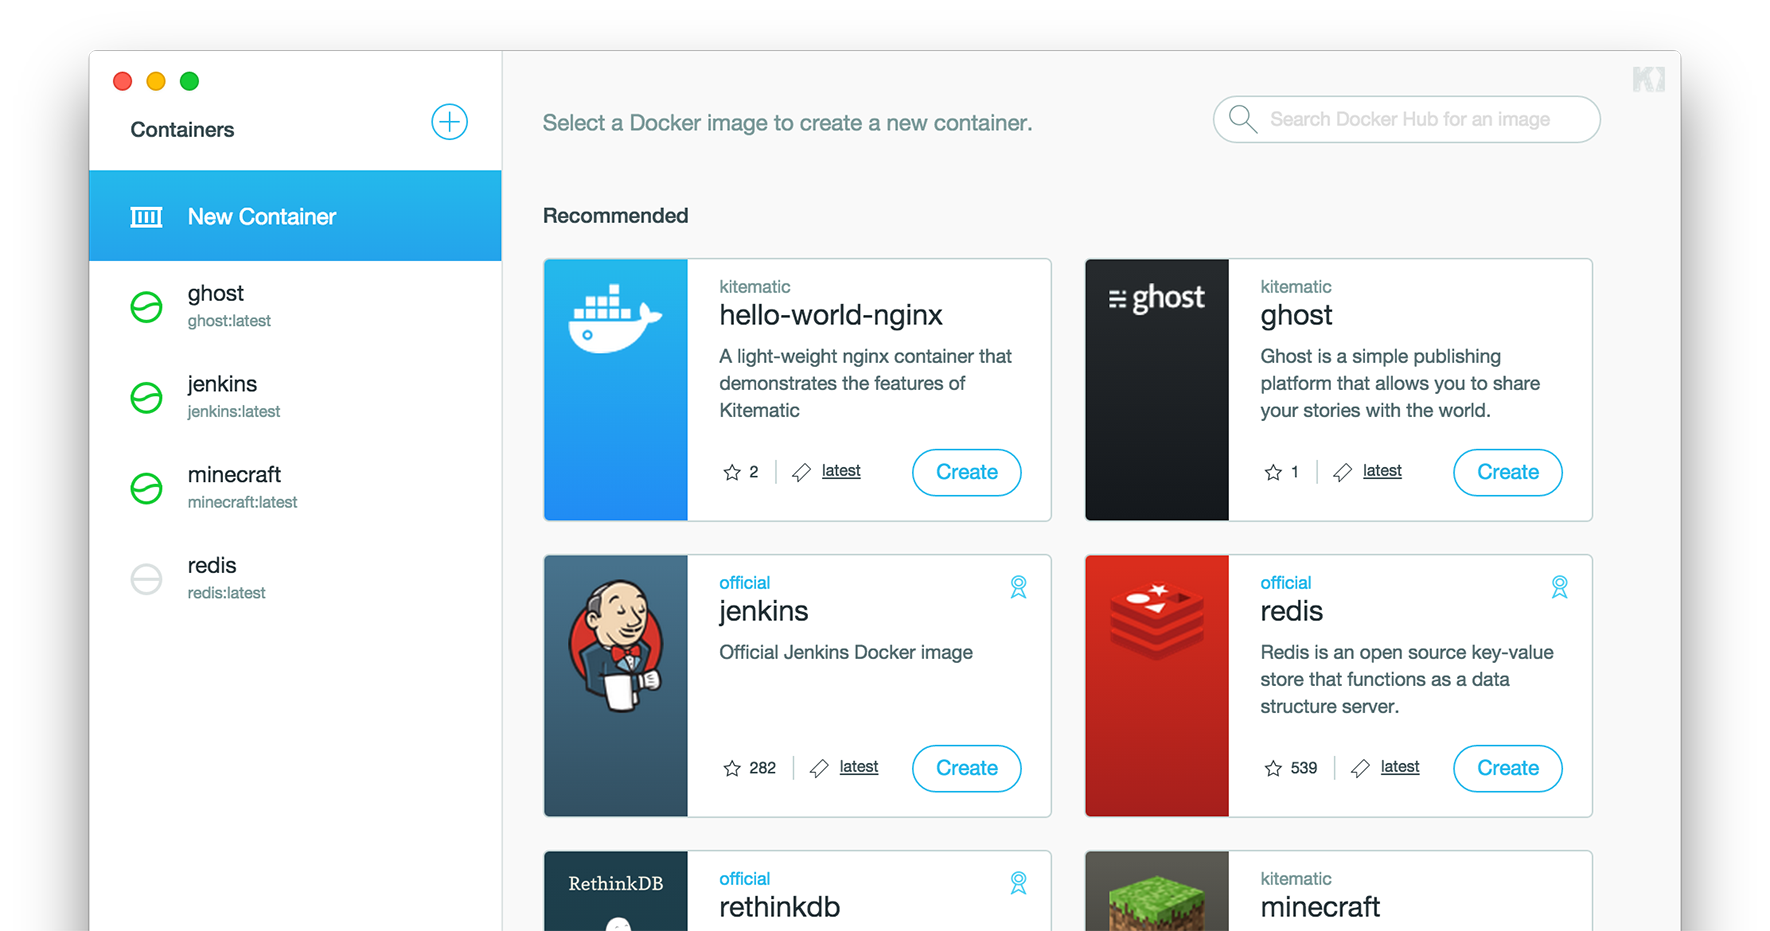
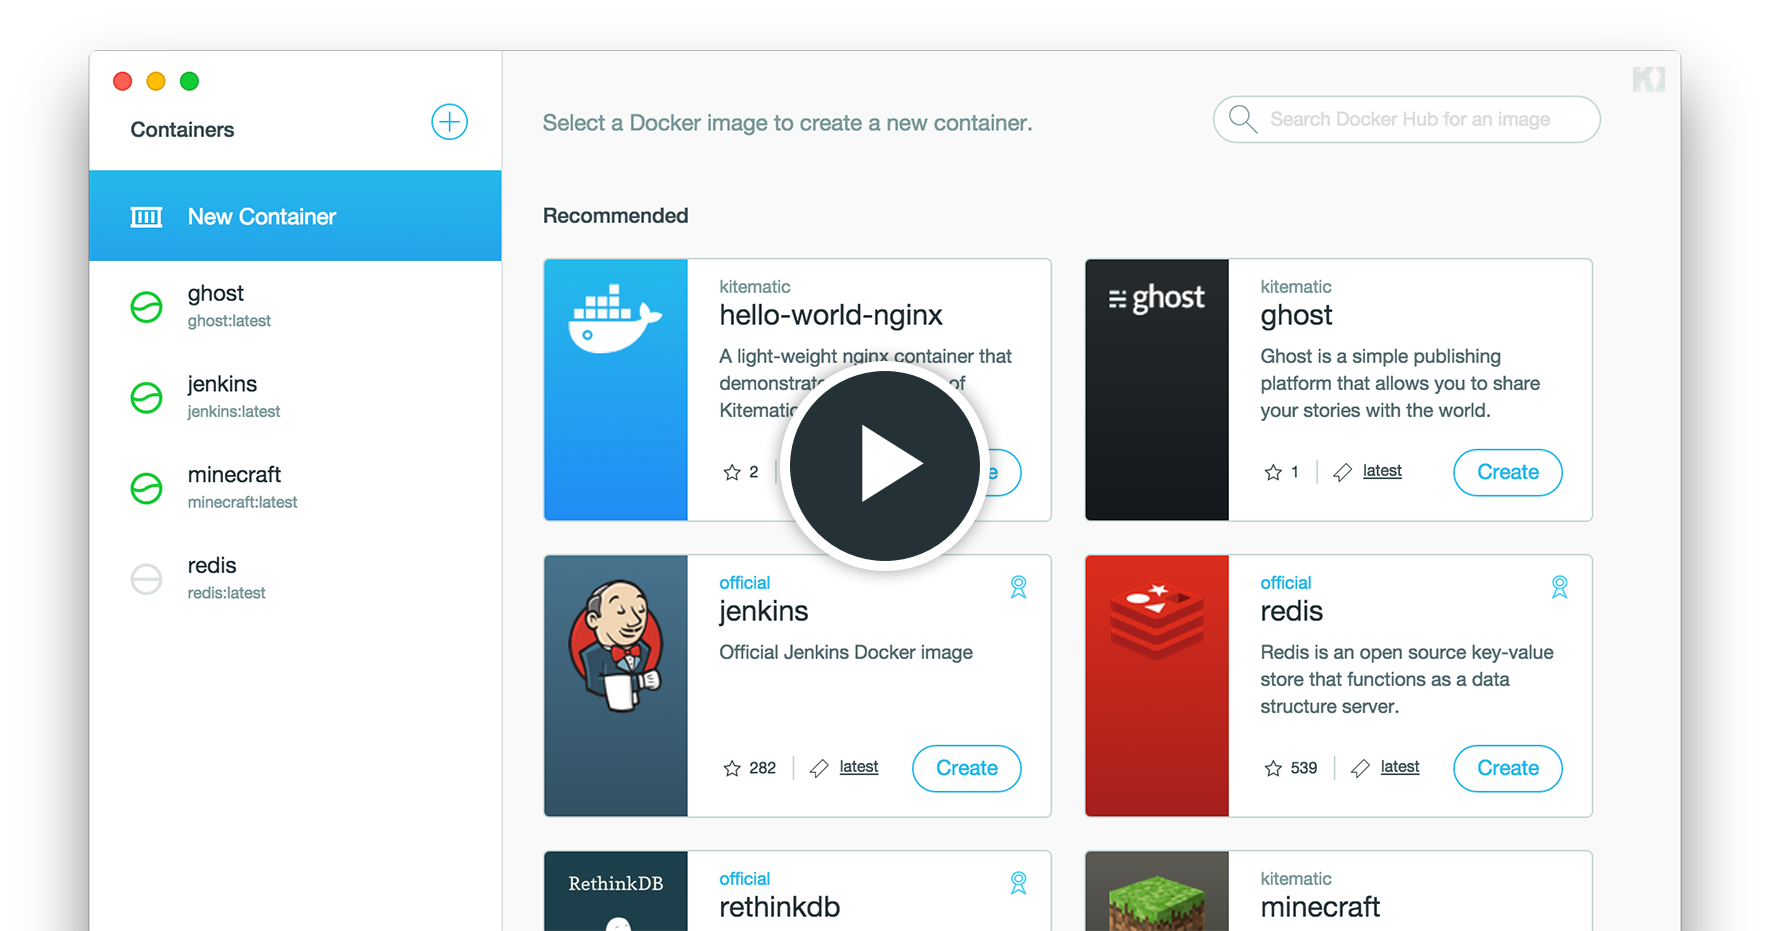
Added video popup and play button.

Changed region(s): [[0.435, 0.3738, 0.5593, 0.623]]

diff --git a/app/_layouts/default.html b/app/_layouts/default.html
@@ -77,13 +77,9 @@
       $(".screenshot").fancybox({
         maxWidth: 800,
         maxHeight: 600,
-        fitToView: false,
-        width: '70%',
-        height: '70%',
-        autoSize: false,
-        closeClick: false,
-        openEffect: 'none',
-        closeEffect: 'none'
+        fitToView: true,
+        autoSize: true,
+        padding: 0
       });
     });
     </script>
